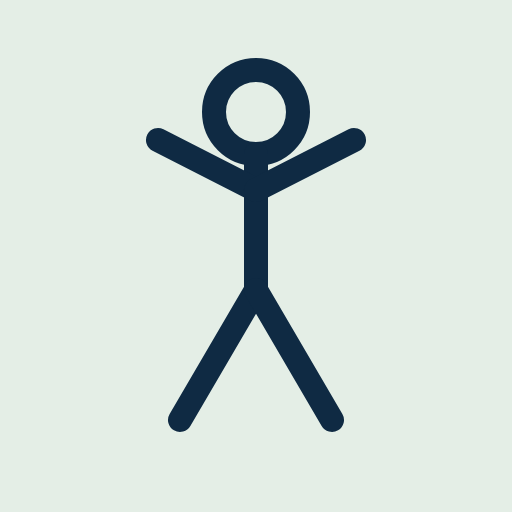
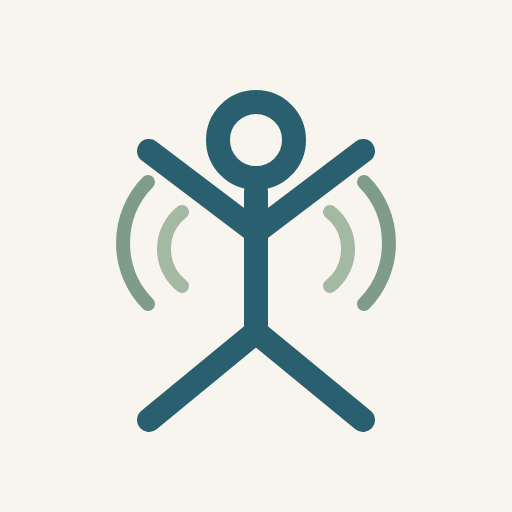
La scoliose passe dans la partie enfant, et l'icône aux bras levés (#53)
* La scoliose passe dans la partie enfant

Elle avait été écrite dans le rachis thoracique, parmi les blessures
d'adulte. Sa place est auprès du Scheuermann et de la spondylolyse :
la scoliose idiopathique se déclare et s'aggrave pendant la
croissance, et c'est à l'adolescent qu'on parle.

Ce n'est pas un déplacement mais une réécriture. Le parcours enfant a
sa propre forme : tutoiement, un « pourquoi » sous chaque exercice,
des drapeaux d'alerte à la place des conseils des premiers jours, et
un paragraphe adressé aux parents. Les seize exercices sont les
mêmes ; leurs consignes et leurs justifications sont refaites.

Le bloc « pour les parents » porte ce qui relève du praticien :
seuils de Cobb, corset au-delà de vingt-cinq degrés, chirurgie
discutée au-delà de quarante-cinq, posologie des méta-analyses
récentes, et les deux réserves qui comptent — l'autocorrection se
prescrit après examen, et les exercices ne remplacent ni le corset
ni le suivi radiologique.

Les quatre phases du parcours enfant sont dites en termes de
douleur : « Ça fait vraiment mal », « Je n'ai plus mal ». Cela
convient aux huit premières entrées, qui font mal. Une scoliose est
presque toujours indolore, et l'écran affichait donc un titre faux à
chaque étape. Une entrée peut désormais porter ses propres libellés,
comme une blessure porte déjà son propre rythme ; la scoliose parle
d'apprentissage et d'entretien. Les huit autres entrées gardent les
[…]

Changed region(s): [[0.2188, 0.0938, 0.7812, 0.8438]]

diff --git a/index.html b/index.html
@@ -2596,38 +2596,6 @@ const PATHOLOGIES = [
                             { name: "Reprise d'une activité physique régulière", dose: "2 à 3 × par semaine", tip: "Marche rapide, natation, renforcement : l'activité physique régulière est ce qui entretient le mieux la mobilité du dos sur le long terme, davantage que les exercices isolés." },
                             { name: "Maintien du travail de mobilité", dose: "2 à 3 × par semaine", tip: "Poursuivez rotations et extensions thoraciques dans la durée : sans entretien, la raideur revient en quelques semaines." }
                         ] }
-                ] },
-            { id: "scoliose", label: "Scoliose", checkinKind: "phase", desc: "Courbure et rotation de la colonne installées pendant la croissance, le plus souvent indolores, repérées sur une bosse du dos quand on se penche en avant, ou sur une asymétrie des épaules et de la taille.", context: "La rééducation de la scoliose repose sur les exercices spécifiques — méthodes Schroth, SEAS, Lyon, BSPTS —, dont le principe commun est l'autocorrection en trois dimensions : allonger la colonne, la décaler et la dérouler dans le sens opposé à la courbure, puis apprendre à tenir cette correction dans les gestes de tous les jours. Cette correction dépend du dessin exact de votre courbure ; elle ne s'invente pas. Votre kinésithérapeute vous la montre, et ce programme la reprend et l'entretient. Les séances qui donnent les meilleurs résultats sont longues et régulières : trois à quatre fois par semaine, de quarante-cinq minutes à une heure quinze, et l'effet se mesure sur plusieurs mois. Les exercices ne remplacent ni le corset ni la surveillance : pendant la croissance, au-delà de 25°, c'est le corset qui tient la courbure, et les exercices l'accompagnent.", premiersJours: ["Une scoliose ne fait en général pas mal, surtout à l'adolescence. L'absence de douleur ne dit rien de son évolution : c'est la surveillance régulière qui le dit, pas les sensations.", "Ces exercices ne remplacent ni le corset ni le suivi. Si un corset vous a été prescrit, il se porte comme indiqué : les exercices l'accompagnent, ils ne s'y substituent pas.", "Aucun sport n'est interdit, et aucun n'est responsable de la courbure. L'activité physique est recommandée : c'est l'immobilité qui dessert le dos, pas le mouvement.", "Une douleur qui réveille la nuit, qui s'installe, ou des fourmillements dans les jambes ne font pas partie du tableau. Parlez-en avant de poursuivre le programme."], stageGuidance: [
-                    { freq: "Chaque jour, en séance courte", duration: "Deux à quatre semaines : le temps d'apprendre à sentir la correction et à la tenir. Tout le reste du programme s'appuie dessus." },
-                    { freq: "3 à 4 fois par semaine", duration: "Les protocoles qui ont fait leurs preuves tiennent des séances de quarante-cinq minutes à une heure quinze, sur plusieurs mois. Ne jugez pas l'effet avant six mois." },
-                    { freq: "3 à 4 fois par semaine, plus les rappels dans la journée", duration: "Cette étape ne se termine pas : elle se fond dans les gestes quotidiens, qui sont le vrai terrain de la correction." },
-                    { freq: "3 fois par semaine, sans terme", duration: "Pendant toute la croissance au minimum. L'arrêt fait perdre les gains en quelques mois, et la croissance est justement la période où la courbure peut encore évoluer." },
-                ],
-                stages: [
-                    { label: "Mobilité & correction", sub: "au début, ou après une longue interruption", pourquoi: "La correction ne sert à rien si le dos est trop raide pour la prendre. On délie d'abord, puis on apprend à sentir la position juste.", critere: "Vous retrouvez seul la position corrigée que votre kinésithérapeute vous a montrée, et vous la tenez une dizaine de secondes en respirant normalement.", exercises: [
-                            { name: "Autocorrection devant un miroir", dose: "3 × 10", tip: "Debout face à un miroir, reprenez la correction que votre kinésithérapeute vous a montrée : grandissez-vous vers le haut, puis décalez le tronc dans le sens qu'il vous a indiqué. Tenez 5 à 10 secondes en respirant, puis relâchez. La correction dépend du dessin de votre courbure : ne l'inventez pas, c'est celle-là qu'on répète ici." },
-                            { name: "Respiration dirigée assise", dose: "3 × 2 min", tip: "Assis, dos droit, mains posées à plat sur les côtes du côté que votre kinésithérapeute vous a indiqué. Inspirez lentement en cherchant à écarter les côtes sous vos mains, puis expirez longuement. La respiration est le seul moyen d'agir de l'intérieur sur la cage thoracique, là où la rotation s'installe." },
-                            { name: "Mobilisation chat-vache", dose: "2 × 10", tip: "À quatre pattes, alternez lentement dos rond menton rentré et dos creux poitrine ouverte. Mouvement fluide et sans forcer : il s'agit de délier la colonne avant de la corriger, pas de gagner de l'amplitude." },
-                            { name: "Autograndissement allongé", dose: "3 × 30 sec", tip: "Allongé sur le dos, genoux pliés, pieds à plat. Poussez le sommet du crâne vers le haut comme pour vous allonger, menton légèrement rentré, sans décoller les épaules du sol. Couché, le poids du corps ne gêne plus : c'est la position la plus facile pour sentir la colonne s'allonger." }
-                        ] },
-                    { label: "Renforcement", sub: "quand la correction est acquise", pourquoi: "Tenir une correction demande de l'endurance plutôt que de la force : sans elle, la position se défait au bout de quelques minutes.", critere: "Vous tenez les gainages jusqu'au bout sans que la position corrigée se défasse en fin de série.", exercises: [
-                            { name: "Gainage ventral", dose: "3 × 30 sec", tip: "À plat ventre, en appui sur les avant-bras et la pointe des pieds. Chevilles, bassin et épaules alignés, abdominaux serrés, bas du dos ni creusé ni arrondi. Respirez normalement : bloquer le souffle est une erreur fréquente." },
-                            { name: "Gainage latéral", dose: "3 × 20 sec chaque côté", tip: "Allongé sur le côté, en appui sur l'avant-bras, coude sous l'épaule. Décollez le bassin jusqu'à aligner chevilles, hanches et épaules, sans le laisser partir en arrière. Commencez par le côté que votre kinésithérapeute vous a indiqué." },
-                            { name: "Renforcement des extenseurs du dos en position corrigée", dose: "3 × 12", tip: "Allongé sur le ventre, bras le long du corps. Allongez d'abord la colonne, puis décollez la poitrine de quelques centimètres, regard vers le sol pour ne pas casser la nuque. C'est la correction tenue pendant l'effort qui compte, pas la hauteur atteinte." },
-                            { name: "Tirage en position corrigée", dose: "3 × 12", tip: "Élastique fixé devant vous à hauteur de poitrine. Grandissez-vous d'abord, puis tirez les coudes vers l'arrière en serrant les omoplates, sans laisser le tronc se replier. La force en tirage est ce qui permet de tenir la correction sans y penser." }
-                        ] },
-                    { label: "Contrôle moteur", sub: "quand la correction tient pendant l'effort", pourquoi: "Une correction qui ne tient que devant le miroir ne sert à rien. C'est dans le mouvement, et quand vous n'y pensez pas, qu'elle doit résister.", critere: "Vous retrouvez la position corrigée sans miroir, et vous la gardez en marchant et en portant un sac.", exercises: [
-                            { name: "Autocorrection sans repère visuel", dose: "3 × 10", tip: "Debout, dos au miroir ou yeux fermés, reprenez la correction, puis vérifiez dans le miroir. L'écart entre ce que vous sentez et ce que vous voyez se réduit avec les répétitions, et c'est exactement ce qu'on cherche." },
-                            { name: "Quadrupédie bras et jambe opposés", dose: "3 × 10 chaque côté", tip: "À quatre pattes, tendez un bras devant et la jambe opposée derrière, sans que le bassin bascule ni que le dos se creuse. Reprenez l'allongement de la colonne avant chaque répétition." },
-                            { name: "Marche en position corrigée", dose: "3 × 2 min", tip: "Marchez lentement en tenant la correction, bras relâchés. Dès qu'elle se défait, arrêtez-vous, reprenez-la, repartez. Tenir la correction en mouvement est plus difficile qu'à l'arrêt, et c'est ce qui sert dans la vie courante." },
-                            { name: "Autocorrection dans les gestes du quotidien", dose: "quotidien", tip: "Choisissez trois moments répétés de votre journée — attendre le bus, vous brosser les dents, être assis en cours ou au bureau — et reprenez-y la correction. Cette application dans la vie courante pèse davantage, à long terme, que la séance elle-même." }
-                        ] },
-                    { label: "Entretien au long cours", sub: "pendant toute la croissance", pourquoi: "Il n'y a pas de guérison à atteindre ici. La courbure peut évoluer tant que la croissance dure, et les gains se perdent en quelques mois d'arrêt.", critere: "La correction tient sans que vous y pensiez dans la plupart de vos activités, et votre courbure est stable au dernier contrôle.", exercises: [
-                            { name: "Entretien de l'autocorrection", dose: "3 × par semaine", tip: "Reprenez en entier la séance d'autocorrection et de respiration dirigée. Il n'y a pas de terme à cette étape : pendant toute la croissance, l'arrêt fait perdre les gains en quelques mois." },
-                            { name: "Renforcement global d'entretien", dose: "2 à 3 × par semaine", tip: "Gainages, tirages et extensions du dos, en gardant la correction pendant l'effort. Un tronc endurant est ce qui permet de tenir la position sans fatigue le reste de la journée." },
-                            { name: "Activité physique régulière", dose: "2 à 3 × par semaine", tip: "Choisissez un sport qui vous plaît, sans restriction : aucun sport ne provoque ni n'aggrave une scoliose, et aucun n'est à éviter pour cette raison. L'activité régulière entretient mieux la mobilité et la force du dos que les exercices isolés." },
-                            { name: "Maintien de la mobilité thoracique", dose: "2 à 3 × par semaine", tip: "Poursuivez les rotations et les extensions du haut du dos, ainsi que la respiration dirigée. La cage thoracique se raidit vite quand le travail s'arrête, et c'est elle qui porte la rotation." }
-                        ] }
                 ] }
         ] },
     { id: "lombaire", label: "Rachis lombaire", injuries: [
@@ -3165,6 +3133,12 @@ const CROISSANCE_PHASE_INFO = [
     "C'est la meilleure fenêtre pour se renforcer et s'assouplir, parce que la prochaine poussée arrivera.",
     "On revient à tout, et on garde quelques exercices d'entretien pour la suite.",
 ];
+// Les quatre phases ci-dessus sont dites en termes de douleur, ce qui convient aux huit
+// premières entrées : elles font mal. La scoliose, elle, est presque toujours indolore, et
+// « Ça fait vraiment mal » ou « Je n'ai plus mal » n'y veulent rien dire. Une entrée peut
+// donc porter ses propres libellés, comme une blessure porte son propre rythme.
+const phasesDe = (croi) => (croi && croi.phases) || CROISSANCE_PHASES;
+const phaseInfoDe = (croi) => (croi && croi.phasesInfo) || CROISSANCE_PHASE_INFO;
 const CROISSANCE_AGES = [
     { id: "petit", label: "8-11 ans", note: "Fais les exercices avec un adulte à côté, et arrête dès que ça tire vraiment. Le nombre de répétitions compte moins que de les faire régulièrement." },
     { id: "moyen", label: "12-14 ans", note: "C'est souvent la période où ça fait le plus mal, parce que tu grandis vite. Sois patient : ce n'est pas de ta faute et ça finit toujours par passer." },
@@ -3323,6 +3297,53 @@ const CROISSANCE_DATA = [
                     { name: "Retour aux frappes", dose: "selon ton plan", tip: "Commence par des passes courtes, puis longues, puis les frappes au but.", pourquoi: "Plus la frappe est longue, plus l'intérieur de la cuisse tire fort sur ton bassin." },
                     { name: "Étirements d'entretien", dose: "3 × par semaine", tip: "Avant de la hanche : en fente, genou arrière au sol, avance le bassin sans cambrer. Intérieur de la cuisse : assis, plantes de pieds jointes, laisse les genoux descendre vers le sol. Trente secondes chacun, même sans douleur.", pourquoi: "Tant que tu grandis, tes muscles se raccourcissent : les étirements gardent de l'avance." },
                     { name: "Échauffement avant chaque séance", dose: "10 min", tip: "Ne saute jamais l'échauffement, surtout avant un match ou une séance de vitesse.", pourquoi: "Un muscle froid tire plus fort sur l'os qu'un muscle chaud. C'est la mesure la plus simple pour éviter la rechute." }
+                ] }
+        ],
+    },
+    {
+        id: "scoliose",
+        label: "Scoliose",
+        alias: "Le dos qui se courbe sur le côté",
+        phases: [
+            { label: "Je commence", sub: "J'apprends la position" },
+            { label: "Je la tiens", sub: "La correction vient plus facilement" },
+            { label: "Elle tient en bougeant", sub: "Même sans le miroir" },
+            { label: "J'entretiens", sub: "Pendant toute la croissance" },
+        ],
+        phasesInfo: [
+            "On apprend d'abord à sentir la position et à la retrouver seul. Tout le reste s'appuie dessus.",
+            "On construit l'endurance qui permet de tenir la correction plus de quelques minutes.",
+            "La correction doit résister au mouvement et à l'inattention, pas seulement au miroir.",
+            "Il n'y a pas de fin : tant que tu grandis, la courbure peut bouger, et les gains se perdent à l'arrêt.",
+        ],
+        desc: "Ta colonne ne monte pas tout droit : elle dessine une courbe sur le côté et tourne un peu sur elle-même. Le plus souvent ça ne fait pas mal, et ça se remarque à une bosse dans le dos quand tu te penches en avant, ou à une épaule plus haute que l'autre.",
+        context: "Personne ne sait pourquoi une colonne se met à tourner pendant la croissance. Ce qu'on sait, c'est que ce n'est pas de ta faute : ni ton cartable, ni ta façon de t'asseoir, ni le sport que tu fais n'y sont pour quelque chose. Le travail consiste à apprendre à te replacer dans le sens opposé à ta courbe — c'est ce qu'on appelle l'autocorrection — puis à tenir cette position de plus en plus longtemps, jusqu'à ce qu'elle vienne toute seule. Cette correction dépend du dessin exact de ta courbe : elle ne s'invente pas, c'est ton kiné qui te la montre, et ce programme la reprend. Les séances utiles sont longues et régulières, et les effets se voient sur plusieurs mois, pas en quinze jours. Si on t'a prescrit un corset, c'est lui qui tient la courbure : les exercices l'accompagnent, ils ne le remplacent pas.",
+        parent: "La scoliose idiopathique de l'adolescent se surveille sur l'angle de Cobb et la maturité osseuse, non sur la douleur — elle est le plus souvent indolore, et l'absence de gêne ne dit rien de l'évolution. Les seuils usuels : surveillance en dessous de 20°, corset au-delà de 25° pendant la croissance, chirurgie discutée au-delà de 45 à 50°. Les exercices spécifiques — Schroth, SEAS, Lyon, BSPTS — reposent sur l'autocorrection en trois dimensions, son transfert dans les gestes quotidiens et l'éducation ; les méta-analyses récentes retiennent trois à quatre séances hebdomadaires de quarante-cinq minutes à une heure quinze. Deux points méritent d'être dits aux parents. L'autocorrection dépend du dessin de la courbure et se prescrit après examen : ce programme la reprend, il ne la remplace pas. Et les exercices ne se substituent ni au corset ni au suivi radiologique, dont le rythme revient au médecin. Aucun sport n'est à interdire.",
+        drapeaux: ["Une douleur qui te réveille la nuit, ou qui s'installe alors qu'elle n'était pas là avant.", "Des fourmillements, une faiblesse dans une jambe, ou une courbure qui change vite en quelques mois."],
+        stages: [
+            { critere: "Tu retrouves seul la position corrigée que ton kiné t'a montrée, et tu la tiens une dizaine de secondes en respirant normalement.", exercises: [
+                    { name: "Autocorrection devant un miroir", dose: "3 × 10", tip: "Debout face au miroir, reprends la position que ton kiné t'a montrée : grandis-toi vers le haut, puis décale ton buste du côté qu'il t'a indiqué. Tiens 5 à 10 secondes en respirant, puis relâche.", pourquoi: "C'est le geste central de tout le programme. Le miroir te sert de juge : au début tu crois être droit alors que tu ne l'es pas encore." },
+                    { name: "Respiration dirigée assise", dose: "3 × 2 min", tip: "Assis bien droit, pose tes mains à plat sur les côtes du côté que ton kiné t'a indiqué. Inspire lentement en cherchant à écarter tes côtes sous tes mains, puis souffle longuement.", pourquoi: "Ta cage thoracique tourne avec ta colonne. La respiration est le seul moyen d'agir dessus de l'intérieur, là où aucun muscle ne va." },
+                    { name: "Mobilisation chat-vache", dose: "2 × 10", tip: "À quatre pattes, alterne lentement dos rond menton rentré et dos creux poitrine ouverte. Mouvement fluide, sans forcer.", pourquoi: "On délie la colonne avant de la corriger. Un dos raide ne peut pas prendre la position qu'on lui demande." },
+                    { name: "Autograndissement allongé", dose: "3 × 30 sec", tip: "Allongé sur le dos, genoux pliés, pieds à plat. Pousse le sommet de ton crâne vers le haut comme pour t'allonger, menton légèrement rentré, sans décoller les épaules.", pourquoi: "Couché, le poids de ton corps ne gêne plus : c'est la position la plus facile pour sentir ta colonne s'allonger." }
+                ] },
+            { critere: "Tu tiens les gainages jusqu'au bout sans que ta position corrigée se défasse en fin de série.", exercises: [
+                    { name: "Gainage ventral", dose: "3 × 30 sec", tip: "En appui sur les avant-bras et la pointe des pieds, coudes sous les épaules, corps en ligne droite, ventre serré. Si tu ne tiens pas, pose les genoux au sol.", pourquoi: "Tenir une correction demande de l'endurance, pas de la force pure. C'est ce tronc solide qui t'évite de t'affaisser au bout de cinq minutes." },
+                    { name: "Gainage latéral", dose: "3 × 20 sec chaque côté", tip: "Allongé sur le côté, en appui sur l'avant-bras, coude sous l'épaule. Décolle le bassin jusqu'à aligner chevilles, hanches et épaules. Commence par le côté que ton kiné t'a indiqué.", pourquoi: "Ta courbe te fait travailler différemment à droite et à gauche. Ce gainage-là rattrape le côté qui se laisse aller." },
+                    { name: "Renforcement des extenseurs du dos en position corrigée", dose: "3 × 12", tip: "Allongé sur le ventre, bras le long du corps. Allonge d'abord ta colonne, puis décolle la poitrine de quelques centimètres, regard vers le sol.", pourquoi: "Ce qui compte n'est pas de monter haut, mais de garder la correction pendant l'effort. Monter plus haut en la perdant ne sert à rien." },
+                    { name: "Tirage en position corrigée", dose: "3 × 12", tip: "Élastique fixé devant toi à hauteur de poitrine. Grandis-toi d'abord, puis tire les coudes vers l'arrière en serrant les omoplates, sans laisser le buste se replier.", pourquoi: "La force en tirage est ce qui te permettra un jour de tenir la position sans y penser." }
+                ] },
+            { critere: "Tu retrouves ta position corrigée sans miroir, et tu la gardes en marchant et en portant ton sac.", exercises: [
+                    { name: "Autocorrection sans repère visuel", dose: "3 × 10", tip: "Debout, dos au miroir ou yeux fermés, reprends la correction, puis vérifie dans le miroir.", pourquoi: "L'écart entre ce que tu sens et ce que tu vois se réduit à force de répéter. C'est exactement ce qu'on cherche : que ton corps sache où il est." },
+                    { name: "Quadrupédie bras et jambe opposés", dose: "3 × 10 chaque côté", tip: "À quatre pattes, tends un bras devant et la jambe opposée derrière, sans que ton bassin bascule ni que ton dos se creuse.", pourquoi: "Tu apprends à garder ta colonne immobile pendant que tes bras et tes jambes bougent — ce que demande la vie de tous les jours." },
+                    { name: "Marche en position corrigée", dose: "3 × 2 min", tip: "Marche lentement en tenant la correction, bras relâchés. Dès qu'elle se défait, arrête-toi, reprends-la, repars.", pourquoi: "Tenir la position à l'arrêt est facile. En mouvement, c'est autre chose — et c'est en mouvement que tu passes tes journées." },
+                    { name: "Autocorrection dans les gestes du quotidien", dose: "quotidien", tip: "Choisis trois moments qui reviennent chaque jour — attendre le bus, te brosser les dents, être assis en cours — et reprends-y la correction.", pourquoi: "Trois minutes par jour dans la vraie vie pèsent plus lourd, au bout d'un an, qu'une séance parfaite par semaine." }
+                ] },
+            { critere: "Ta correction tient sans que tu y penses la plupart du temps, et ta courbure est stable au dernier contrôle.", exercises: [
+                    { name: "Entretien de l'autocorrection", dose: "3 × par semaine", tip: "Reprends en entier la séance d'autocorrection et de respiration dirigée.", pourquoi: "Il n'y a pas de fin à atteindre ici : tant que tu grandis, la courbure peut encore bouger, et les gains se perdent en quelques mois d'arrêt." },
+                    { name: "Renforcement global d'entretien", dose: "2 à 3 × par semaine", tip: "Gainages, tirages et extensions du dos, en gardant la correction pendant l'effort.", pourquoi: "Un tronc endurant est ce qui te permet de tenir la position toute la journée sans fatiguer." },
+                    { name: "Activité physique régulière", dose: "2 à 3 × par semaine", tip: "Choisis un sport qui te plaît, sans restriction.", pourquoi: "Aucun sport ne provoque ni n'aggrave une scoliose, et aucun n'est à éviter pour cette raison. Bouger entretient mieux ton dos que n'importe quel exercice isolé." },
+                    { name: "Maintien de la mobilité thoracique", dose: "2 à 3 × par semaine", tip: "Continue les rotations et les extensions du haut du dos, ainsi que la respiration dirigée.", pourquoi: "Ta cage thoracique se raidit vite quand le travail s'arrête, et c'est elle qui porte la rotation." }
                 ] }
         ],
     },
@@ -4194,7 +4215,7 @@ const CONTENU_ORIGINE = "Les consignes ont été rédigées par " + PRATICIEN + 
     + PRATICIEN_TITRE.toLowerCase() + ", à partir de sa pratique clinique.";
 // L'hébergeur doit être nommé dans les mentions légales. Le site est servi par GitHub Pages.
 const HEBERGEUR = "GitHub, Inc., 88 Colin P. Kelly Jr. Street, San Francisco, CA 94107, États-Unis.";
[2 lines of base64/hex data omitted]
 // --- Persistance locale : la progression reste sur l'appareil du patient ---
 // Aucune donnée ne quitte le téléphone : pas de serveur, pas de compte.
 // Tout est encapsulé dans des try/catch car le stockage peut être refusé
@@ -4218,7 +4239,9 @@ const idExercice = (ex) => slug(ex.name);
 // Clés de rangement. Elles ne contiennent plus aucun indice de position.
 const cleParcours = (pathId, injuryId) => `${pathId}:${injuryId}`;
 const cleCroissance = (croissanceId, stageIdx) => {
-    const ph = CROISSANCE_PHASES[stageIdx];
+    // La clé se construit sur le libellé de la phase, qui peut être propre à l'entrée.
+    const croi = CROISSANCE_DATA.find((c) => c.id === croissanceId);
+    const ph = phasesDe(croi)[stageIdx];
     return `croissance:${croissanceId}:${slug(ph && ph.label)}`;
 };
 const cleCoureur = (runnerPathId, stageIdx) => {
@@ -6119,7 +6142,7 @@ function GuidedJourney() {
                 React.createElement("h1", { className: "text-white text-2xl mt-2 font-medium" }, "Où en es-tu aujourd'hui ?"),
                 React.createElement("p", { className: "text-sm mt-3 leading-relaxed", style: { color: "rgba(255,255,255,0.85)" } }, croi.context)),
             React.createElement("div", { className: "px-6 py-6 flex flex-col gap-3" },
-                CROISSANCE_PHASES.map((ph, si) => (React.createElement("button", { key: ph.label, onClick: () => { setCroissanceStageIdx(si); setView("croissance-exercices"); }, className: "rounded-2xl p-5 text-left bg-white", style: { border: `1px solid ${BORDURE}`, boxShadow: OMBRE_CARTE } },
+                phasesDe(croi).map((ph, si) => (React.createElement("button", { key: ph.label, onClick: () => { setCroissanceStageIdx(si); setView("croissance-exercices"); }, className: "rounded-2xl p-5 text-left bg-white", style: { border: `1px solid ${BORDURE}`, boxShadow: OMBRE_CARTE } },
                     React.createElement("p", { className: "text-base font-medium", style: { color: INK } }, ph.label),
                     React.createElement("p", { className: "text-xs mt-1", style: { color: INK_DOUX } }, ph.sub)))),
                 React.createElement("p", { className: "text-xs px-1 mt-1 leading-relaxed", style: { color: INK_DOUX } }, "Choisis ce qui te correspond aujourd'hui. Tu pourras changer quand ça ira mieux — ou revenir en arrière si ça recommence, ce qui arrive souvent quand on grandit."),
@@ -6131,7 +6154,7 @@ function GuidedJourney() {
         const croi = CROISSANCE_DATA.find((c) => c.id === croissanceId);
         if (!croi)
             return null;
-        const ph = CROISSANCE_PHASES[croissanceStageIdx];
+        const ph = phasesDe(croi)[croissanceStageIdx];
         const st = croi.stages[croissanceStageIdx];
         const cle = cleCroissance(croi.id, croissanceStageIdx);
         const faits = done[cle] || new Set();
@@ -6153,12 +6176,12 @@ function GuidedJourney() {
                         style: { color: "rgba(255,255,255,0.85)", border: "1px solid rgba(255,255,255,0.28)" } },
                         React.createElement(IconeMaison, { size: 15 }),
                         "Accueil")),
-                React.createElement("div", { className: "flex gap-1.5 mb-3" }, CROISSANCE_PHASES.map((p, si) => (React.createElement("div", { key: p.label, className: "h-1.5 flex-1 rounded-full overflow-hidden", style: { backgroundColor: "rgba(255,255,255,0.25)" } },
+                React.createElement("div", { className: "flex gap-1.5 mb-3" }, phasesDe(croi).map((p, si) => (React.createElement("div", { key: p.label, className: "h-1.5 flex-1 rounded-full overflow-hidden", style: { backgroundColor: "rgba(255,255,255,0.25)" } },
                     React.createElement("div", { className: "h-full rounded-full", style: { transition: MOUVEMENT_REDUIT ? "none" : "width .3s cubic-bezier(.2,.7,.3,1)", width: si < croissanceStageIdx ? "100%" : si === croissanceStageIdx ? "50%" : "0%", backgroundColor: CROISSANCE_CLAIR } }))))),
                 React.createElement("p", { className: "text-[11px] tracking-[0.25em] uppercase", style: { color: CROISSANCE_CLAIR } },
-                    "Étape ", croissanceStageIdx + 1, " sur ", CROISSANCE_PHASES.length),
+                    "Étape ", croissanceStageIdx + 1, " sur ", phasesDe(croi).length),
                 React.createElement("h1", { className: "text-white text-2xl mt-1 font-medium" }, ph.label),
-                React.createElement("p", { className: "text-sm mt-2 leading-relaxed", style: { color: "rgba(255,255,255,0.85)" } }, CROISSANCE_PHASE_INFO[croissanceStageIdx]),
+                React.createElement("p", { className: "text-sm mt-2 leading-relaxed", style: { color: "rgba(255,255,255,0.85)" } }, phaseInfoDe(croi)[croissanceStageIdx]),
                 React.createElement("p", { className: "text-[11px] mt-4 mb-1.5", style: { color: "rgba(255,255,255,0.6)" } }, "Tu as"),
                 React.createElement("div", { className: "flex gap-1.5 flex-wrap" }, CROISSANCE_AGES.map((a) => (React.createElement("button", { key: a.id, onClick: () => setAgeId(a.id), className: "cible-44 px-4 rounded-full text-xs font-medium transition-colors", style: { backgroundColor: ageId === a.id ? "#FFFFFF" : "rgba(255,255,255,0.14)", color: ageId === a.id ? HEADER : "rgba(255,255,255,0.75)" } }, a.label)))),
                 React.createElement("p", { className: "text-xs mt-2 leading-relaxed", style: { color: "rgba(255,255,255,0.75)" } }, age.note)),
@@ -6190,12 +6213,12 @@ function GuidedJourney() {
                         React.createElement(ChevronLeft, { size: 16 }),
                         " Avant"),
                     React.createElement("button", { onClick: () => {
-                            if (croissanceStageIdx === CROISSANCE_PHASES.length - 1)
+                            if (croissanceStageIdx === phasesDe(croi).length - 1)
                                 setView("croissance-fin");
                             else
                                 setCroissanceStageIdx((i) => i + 1);
                         }, className: "flex items-center gap-1 px-5 py-2.5 rounded-full text-sm", style: { backgroundColor: CROISSANCE_ACCENT, color: CROISSANCE_SUR_ACCENT } },
-                        croissanceStageIdx === CROISSANCE_PHASES.length - 1 ? "J'ai fini" : "Étape suivante",
+                        croissanceStageIdx === phasesDe(croi).length - 1 ? "J'ai fini" : "Étape suivante",
                         " ",
                         React.createElement(ChevronRight, { size: 16 }))),
                 !fini && React.createElement("p", { className: "text-xs mt-3", style: { color: INK_DOUX } }, "Tu peux avancer même si tu n'as pas tout coché."))));
